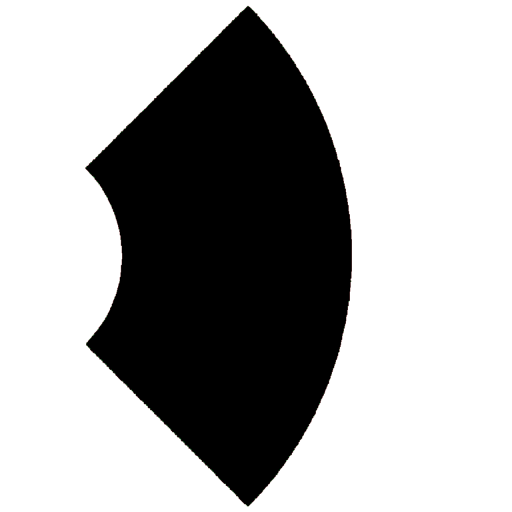
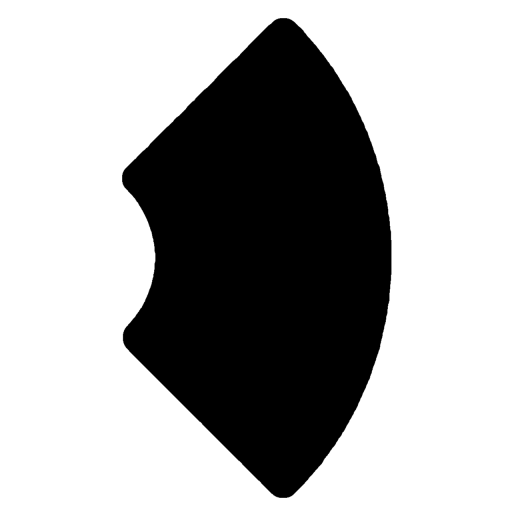
UI変更

Changed region(s): [[0.1562, 0.0, 0.7812, 1.0]]

diff --git a/Src/Object/System/Select/ModeSelect.cpp b/Src/Object/System/Select/ModeSelect.cpp
@@ -293,26 +293,4 @@ void ModeSelect::DebugUpdate()
 
 void ModeSelect::DebugDraw()
 {
-	DrawBox(
-		0,
-		0,
-		Application::SCREEN_SIZE_X,
-		Application::SCREEN_SIZE_Y,
-		Utility::CYAN,
-		true
-	);
-
-	DrawFormatString(
-		0,
-		0,
-		Utility::BLACK,
-		"SelectScene"
-	);
-	DrawFormatString(
-		Application::SCREEN_HALF_X,
-		Application::SCREEN_HALF_Y + 16,
-		Utility::WHITE,
-		"arcIndex = %d",
-		arcIndex_
-	);
 }

diff --git a/Src/Manager/System/ResourceManager.cpp b/Src/Manager/System/ResourceManager.cpp
@@ -45,7 +45,7 @@ void ResourceManager::Init(void)
 	res = std::make_unique<Resource>(Resource::TYPE::IMGS, path_EditUi + "Cursors.png",IMG_CURSORS_DIV_X, IMG_CURSORS_DIV_Y, IMG_CURSORS_SIZE, IMG_CURSORS_SIZE);
 	resourcesMap_.emplace(SRC::CURSORS, std::move(res));
 
-	res = std::make_unique<Resource>(Resource::TYPE::IMGS, path_Select + "Arcs.png", IMG_ARCS_DIV_X, IMG_ARCS_DIV_Y, IMG_ARC_SIZE, IMG_ARC_SIZE);
+	res = std::make_unique<Resource>(Resource::TYPE::IMGS, path_Select + "SelectArcs.png", IMG_ARCS_DIV_X, IMG_ARCS_DIV_Y, IMG_ARC_SIZE, IMG_ARC_SIZE);
 	resourcesMap_.emplace(SRC::ARCS, std::move(res));
 	
 	res = std::make_unique<Resource>(Resource::TYPE::IMG, path_Select + "BackArc.png");